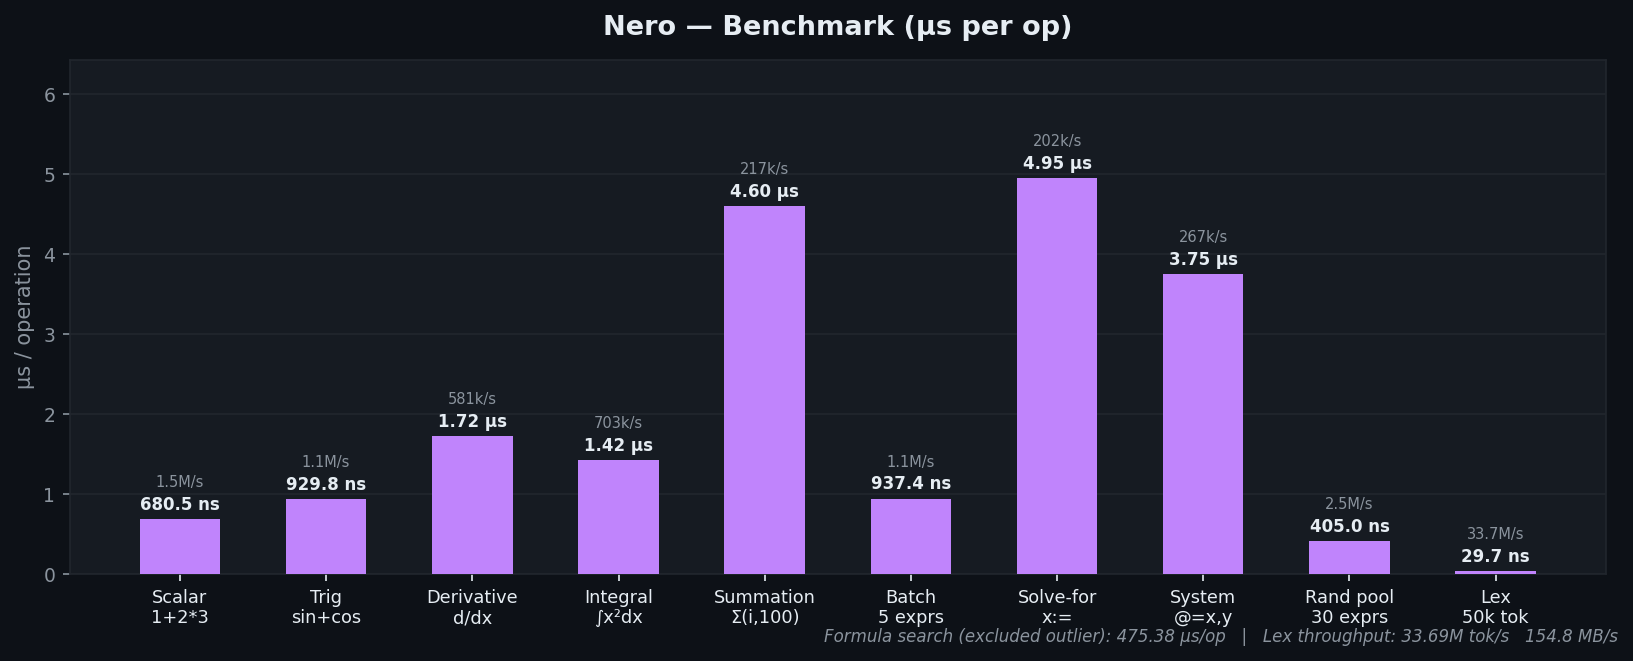
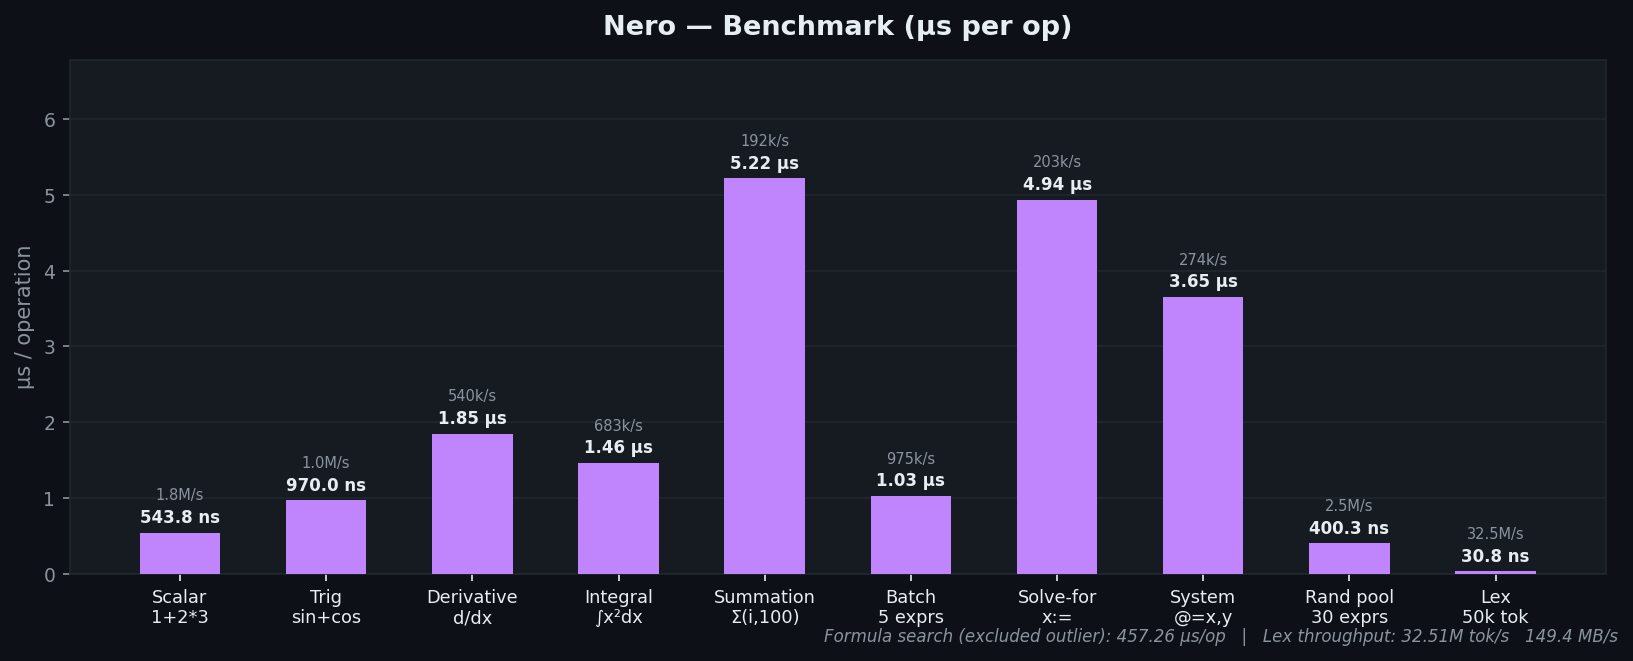
fix: Omega unit gen

diff --git a/scripts/unit_gen.ts b/scripts/unit_gen.ts
@@ -79,7 +79,6 @@ const units_prefixes: Record<string, number> = {
     "M": 6,
     "k": 3,
     "h": 2,
-    "da": 1,
     "d": -1,
     "c": -2,
     "m": -3,
@@ -102,7 +101,7 @@ for(const [suffix, unit_value] of Object.entries(units_map)){
         if(suffix === "eV") prefix_exponent -= 19;
         const exponent_str = suffix === "eV" ? (prefix_exponent === 0 ? '1.60218e-19' : prefix_exponent > 0 ? `1.60218e+${prefix_exponent}` : `1.60218e${prefix_exponent}`)
             : (prefix_exponent === 0 ? '1' : prefix_exponent > 0 ? `1e+${prefix_exponent}` : `1e${prefix_exponent}`);
-        let unit_name = prefix + suffix;
+        let unit_name = (prefix === "mu " && suffix === "\\Omega") ? "mu\\Omega" : (prefix + suffix);
         if(unit_name === "\\Omega") unit_name = "Omega";
         const unit_case = get_unit_case(unit_name, exponent_str, unit_value);
         unit_case_map.push([unit_name, unit_case]);
@@ -190,7 +189,7 @@ const fmt = (arr: string[]) => `[${arr.map(u => JSON.stringify(u)).join(", ")}]`
 const unit_splitter_block = [
     "    // UNIT_SPLITTER_GENERATED_START",
     `    const base_units = ${fmt(Object.keys(base_units_map))};`,
-    `    const derived_units = ${fmt(Object.keys(derived_units_map).map(u => u === "\\Omega" ? "Omega" : u))};`,
+    `    const derived_units = ${fmt(Object.keys(derived_units_map))};`,
     `    const singleton_units = ${fmt(singleton_unit_names)};`,
     "    // UNIT_SPLITTER_GENERATED_END",
 ].join("\n");

diff --git a/nero_wasm_interface.ts b/nero_wasm_interface.ts
@@ -288,7 +288,7 @@ export function array_empty(unit: number[]): boolean {
 export function latex_unit_splitter(latex: string): string {
     // UNIT_SPLITTER_GENERATED_START
     const base_units = ["m", "g", "s", "A", "K", "mol", "cd"];
-    const derived_units = ["N", "J", "Pa", "C", "Hz", "S", "Ohm", "Omega", "F", "V", "W", "Wb", "T", "H", "L", "eV"];
+    const derived_units = ["N", "J", "Pa", "C", "Hz", "S", "Ohm", "\\Omega", "F", "V", "W", "Wb", "T", "H", "L", "eV"];
     const singleton_units = ["nmi", "AU", "ly", "pc", "cal", "kcal", "PSI", "in", "ft", "yd", "mi", "oz", "lb", "min", "hour", "day", "month", "year", "ATM", "gauss"];
     // UNIT_SPLITTER_GENERATED_END
 
@@ -334,6 +334,6 @@ export function latex_unit_splitter(latex: string): string {
     );
 
     // Replace matched units with backslash + unit
-    const new_unit = latex.replace(pattern, '\\$1').replaceAll('\\\\Omega', '\\Omega');
+    const new_unit = latex.replace(pattern, '\\$1').replaceAll('\\\\', '\\');
     return new_unit;
 }

diff --git a/README.md b/README.md
@@ -249,17 +249,17 @@ Supported:
 
 | Benchmark      | µs / op    | ops / sec    | op unit |
 | -------------- | ---------- | ------------ | ------- |
-| Scalar         | 0.68 µs    | 1.47 M/s     | op      |
-| Trig           | 0.93 µs    | 1.08 M/s     | op      |
-| Derivative     | 1.72 µs    | 581.4 k/s    | op      |
-| Integral       | 1.42 µs    | 703.2 k/s    | op      |
-| Summation      | 4.60 µs    | 217.3 k/s    | op      |
-| Batch          | 0.94 µs    | 1.07 M/s     | expr    |
-| Formula search | 475.38 µs  | 2.1 k/s      | op      |
-| Solve-for      | 4.95 µs    | 202.0 k/s    | op      |
-| System solver  | 3.75 µs    | 266.7 k/s    | op      |
-| Random pool    | 0.41 µs    | 2.47 M/s     | expr    |
-| Lex            | 0.03 µs    | 33.69 M/s    | token   |
+| Scalar         | 0.54 µs    | 1.84 M/s     | op      |
+| Trig           | 0.97 µs    | 1.03 M/s     | op      |
+| Derivative     | 1.85 µs    | 540.2 k/s    | op      |
+| Integral       | 1.46 µs    | 683.1 k/s    | op      |
+| Summation      | 5.22 µs    | 191.6 k/s    | op      |
+| Batch          | 1.03 µs    | 974.8 k/s    | expr    |
+| Formula search | 457.26 µs  | 2.2 k/s      | op      |
+| Solve-for      | 4.94 µs    | 202.6 k/s    | op      |
+| System solver  | 3.65 µs    | 273.6 k/s    | op      |
+| Random pool    | 0.40 µs    | 2.50 M/s     | expr    |
+| Lex            | 0.03 µs    | 32.51 M/s    | token   |
 
 <details>
 <summary>Raw numbers</summary>
@@ -267,20 +267,20 @@ Supported:
 ```
 === Nero Benchmarks ===
 
-Scalar: 1 + 2 * 3                                           68.05 ms       1469541/s
-Trig: sin(pi/6) + cos(pi/3)                                 46.49 ms       1075523/s
-Derivative: d/dx(x^3) at x=2                                17.20 ms        581340/s
-Integral: int_0^1 x^2 dx                                     7.11 ms        702848/s
-Summation: sum_{i=1}^{100}(i)                               23.01 ms        217332/s
-Batch (5 unit-carrying exprs)                               46.87 ms        213377/s
-Formula search (acceleration target)                       475.38 ms          2104/s
-Solve-for: x^2 - 4 ; x :=                                   14.85 ms        201969/s
-System solver: x+y=5, x-y=1 ; @=x,y                          7.50 ms        266720/s
-Random pool (30 exprs, 1000 rounds)                         12.15 ms         82327/s
+Scalar: 1 + 2 * 3                                           54.38 ms       1838938/s
+Trig: sin(pi/6) + cos(pi/3)                                 48.50 ms       1030985/s
+Derivative: d/dx(x^3) at x=2                                18.51 ms        540172/s
+Integral: int_0^1 x^2 dx                                     7.32 ms        683484/s
+Summation: sum_{i=1}^{100}(i)                               26.10 ms        191578/s
+Batch (5 unit-carrying exprs)                               51.29 ms        194967/s
+Formula search (acceleration target)                       457.26 ms          2187/s
+Solve-for: x^2 - 4 ; x :=                                   14.81 ms        202503/s
+System solver: x+y=5, x-y=1 ; @=x,y                          7.31 ms        273468/s
+Random pool (30 exprs, 1000 rounds)                         12.01 ms         83278/s
 
 --- Lex Throughput ---
-Lex: 50k-token string (all token types)                    741.98 ms           674/s
-  Tokens/sec: 33.69M   Throughput: 154.8 MB/s
+Lex: 50k-token string (all token types)                    769.06 ms           650/s
+  Tokens/sec: 32.51M   Throughput: 149.4 MB/s
 ```
 
 </details>
